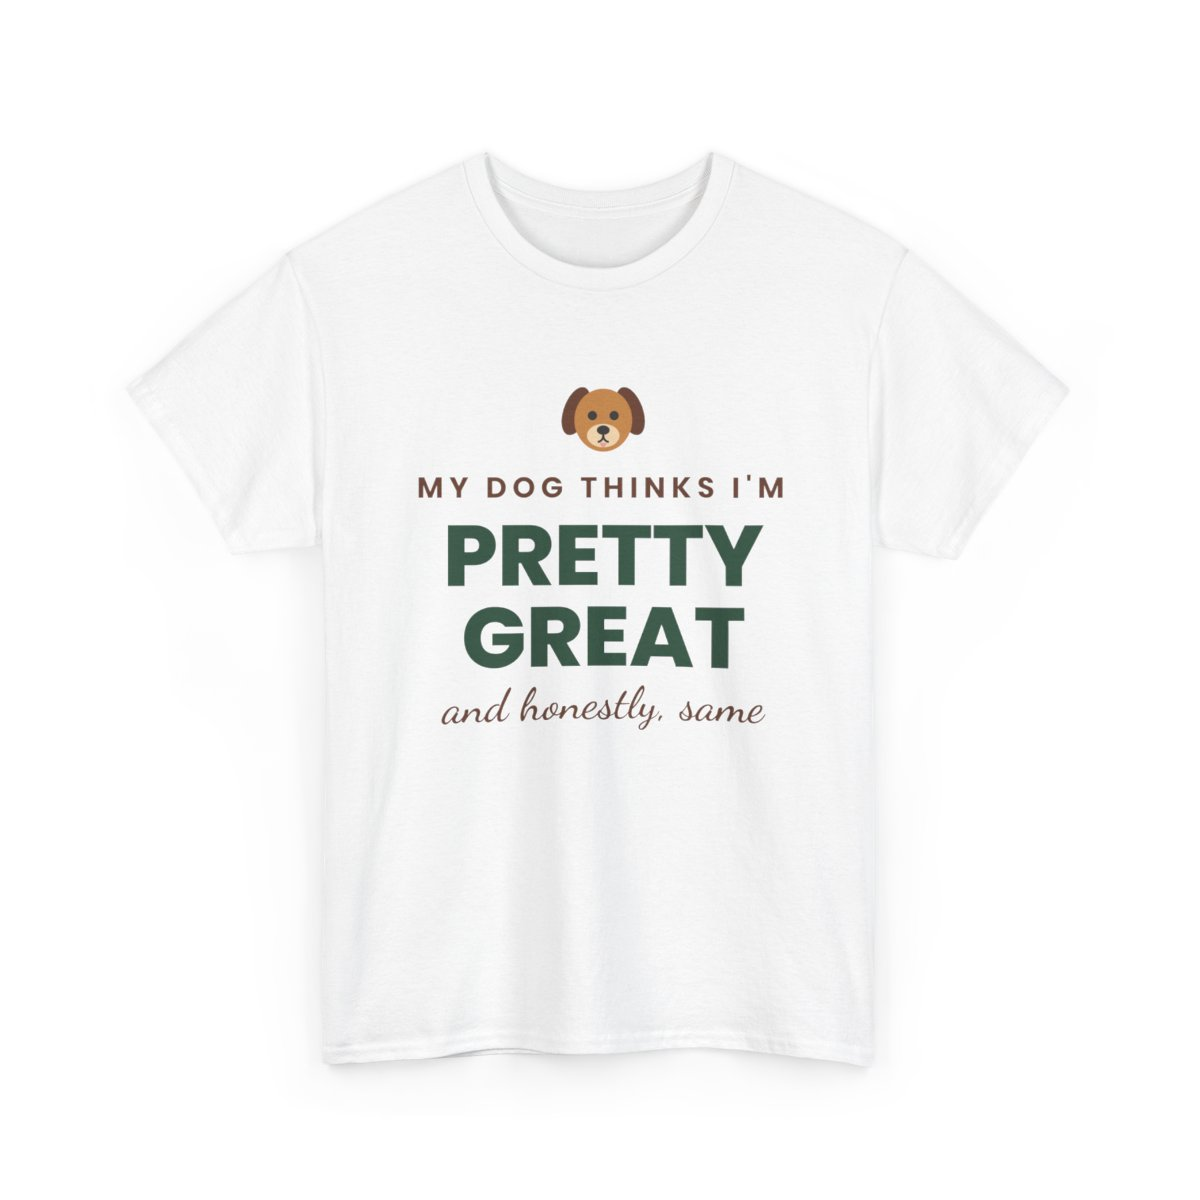
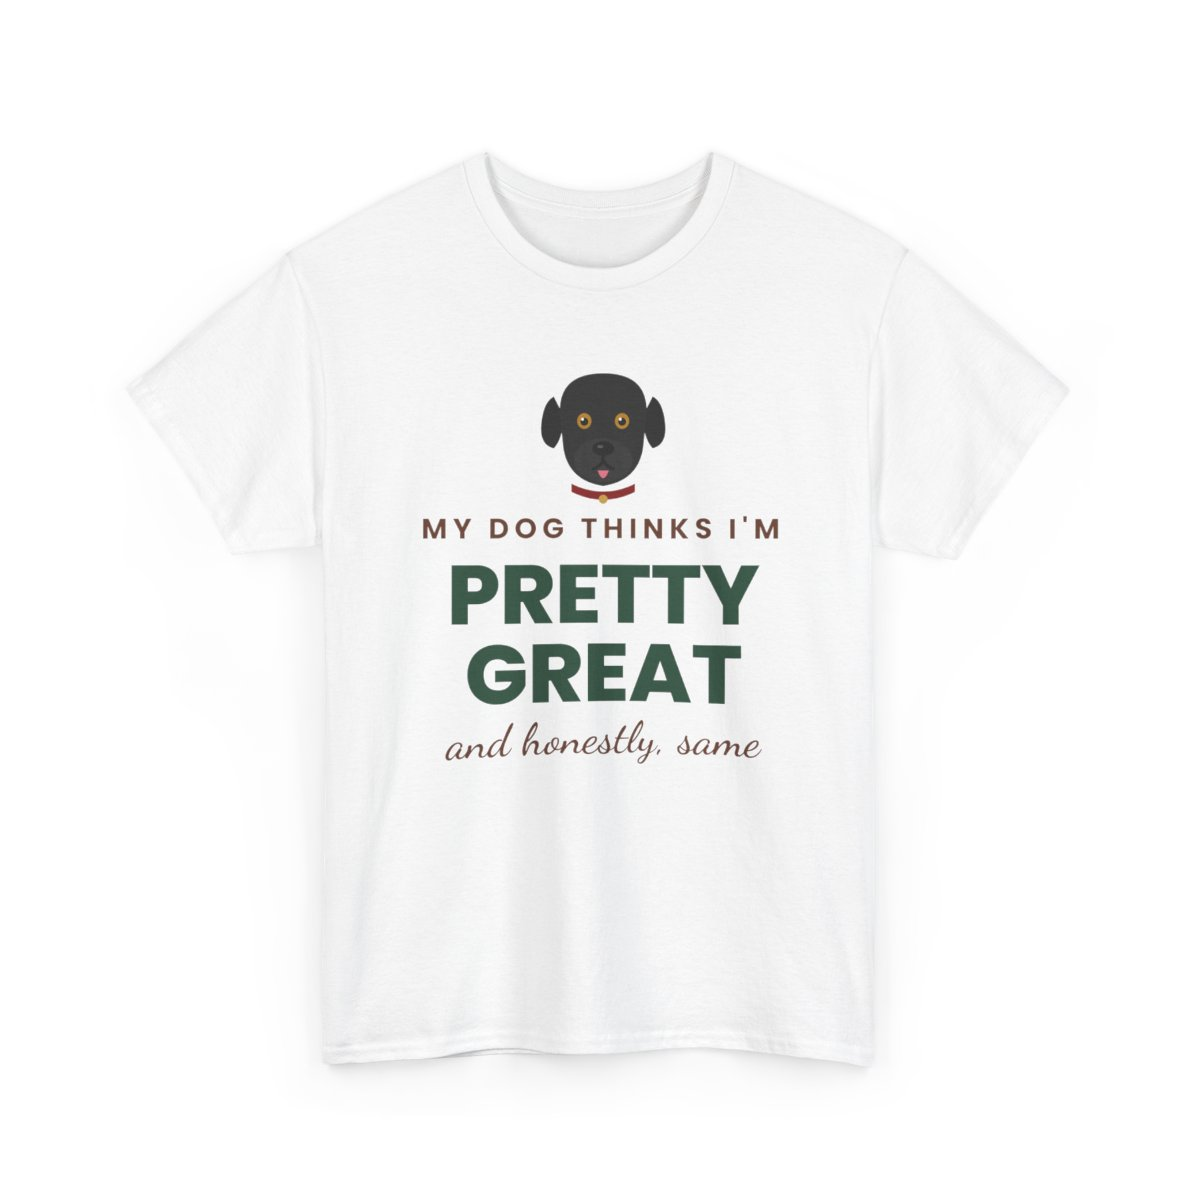
Owner rules: 20% margin floor (24 shirts repriced) and black-lab-only dogs (dog tee redrawn)
Claude-Session: https://claude.ai/code/session_012r2w2rnZ41aNQk7ooqxwNx

Changed region(s): [[0.3392, 0.3083, 0.6475, 0.6475]]

diff --git a/CLAUDE.md b/CLAUDE.md
@@ -39,6 +39,11 @@ Claude reads this file at the start of every session in this repo. Keep it curre
   - Drafts waiting on HQ batch card `ap-pf-batch-2026-11-21`: Santa Promoted Me to Grandpa crewneck ($34.99), Kindergarten Teacher Team tee ($22.99), My Dog Thinks I'm Pretty Great tee ($22.99).
   - Golf prints: Sunrise https://www.etsy.com/listing/4611643362, Golden Hour https://www.etsy.com/listing/4611626909, Sunrise Panorama https://www.etsy.com/listing/4611644710, Golden Hour Panorama https://www.etsy.com/listing/4611630609. Printify prices: prints $34.99/$44.99, panoramas from $29.99.
 
+## Owner rules (Nov 22, 2026)
+
+- **Keep at least a 20% profit margin on every product.** Profit = price − Printify cost − Etsy fees (about 10% + $0.20). So the price must be at least (cost + $0.20) ÷ 0.70, rounded up to the next .99. Check this whenever costs change (back prints, new blueprints, sizes). Never price below it.
+- **Every dog in our designs is a black lab. Always.** Draw a black lab (black coat, drop ears, broad head, amber eyes); never another breed or a generic cartoon dog.
+
 ## Pricing (recommended Nov 7, 2026; shirt and print rows updated by Penny Nov 11 to match live Printify prices)
 
 | Product | Price | Why |
@@ -46,17 +51,17 @@ Claude reads this file at the start of every session in this repo. Keep it curre
 | Kids' Christmas Wish List | $3.99, keep | Entry-level impulse buy, in line with single printables (~$2–4). |
 | Nice List Kit | $6.99, keep | 5 pages, mid-range for Santa letter kits. |
 | Christmas Eve Mega Bundle | **$12.99**, set by owner Nov 8 | 13 pages and includes the whole $6.99 kit. Comparable full Christmas Eve bundles sell for about $10–13. It reads as the obvious upgrade: about 2x the price for 2.6x the pages. Don't go below $9.99, or it undercuts the Nice List Kit. |
-| Kids tees (Big Brother/Sister/Cousin, Nice List) | **$19.99** (live, Printify, Nov 11) | Cost $7.36, so about $10 profit after Etsy fees, before shipping. In band ($6–25; family shirts $20–35, Reach Nov 10). |
+| Kids tees (Big Brother/Sister/Cousin, Nice List, Cookie, Reindeer) | **$20.99** with front + back (Nov 22) | Cost $13.92 with the back print; about $4.80 profit (23%). Front-only kids tees would be $19.99 (cost $7.36). |
 | Toddler tees (Big Brother/Sister/Cousin, Nice List) | **$21.99** (live) | Cost $11.02, about $8.50 profit. The Nov 7 recommendation of $22.99 is not needed. |
-| Adult tees (Grandma, Nice List adult) | **$22.99**, or **$24.99** for 2XL–3XL | Cost $10.05–13.10, about $9–10 profit. Competitor grandparent tees show $13–25 sale prices (Reach Nov 10), so we're at the top: hold and watch. |
+| Adult tees (all) | **$23.99**, 2XL **$26.99**, 3XL **$28.99** with front + back (Nov 22) | Cost $16.48 / $18.33 / $19.53 with the back print; 20%+ margin. Competitor tees show $13–25, so we're at the top. |
 | Youth sweatshirts (Big Brother/Sister) | **$32.99** | Cost $21.71, about $7.80 profit. $29.99 would leave only about $5. |
 | Toddler sweatshirts (Big Brother/Sister) | **$29.99** (Bob, Nov 12) | Cost $19.89, about $6.90 profit. Priced below the youth size. |
-| Adult crewneck sweatshirts (Nice List) | **$34.99**, or **$37.99** for 2XL–3XL (Bob, Nov 14) | Cost $19.45 (2XL $22.35, 3XL $23.79), about $10–12 profit. |
+| Adult crewneck sweatshirts (all) | **$38.99**, 2XL **$42.99**, 3XL **$44.99** with front + back (Nov 22) | Cost $26.69 / $29.58 / $31.03 with the back print; 20%+ margin. |
 | Complete Christmas Printables Bundle (Mega Bundle + Elf Letters + Countdown + Scavenger Hunt + Wish List) | **$19.99** (owner approved Nov 17, card `ap-reach-printables-nov17`) | Top of the bundle ladder ($6.99 → $12.99 → $19.99). About $15 at Cyber Specials 25% off. Built Nov 18; owner publishes. |
 | New Year's Eve kids kit | **$5.99** (owner approved Nov 17) | Paid NYE printables run $3–9 and many are free, so it has to be clearly more complete. List by Dec 5. |
 | Golf course prints | Prints **$34.99** (18x24) / **$44.99** (24x36); panoramas **from $29.99** (live, Printify) | Comparable course prints run about $16–45. Updated from the Nov 7 plan to match Printify, Nov 11. |
 
-**Front + back prints (owner, Nov 22): "all shirts, keep prices."** A back print adds about $6.40 to an adult tee's cost, about $7.25 to a crewneck's and about $5.60 to a kids tee's. Done on Nov 22 for 24 shirts (every adult tee, crewneck and kids tee, live or draft; the rejected batch-9 drafts were skipped). New profit per sale: adult tee about $4 (3XL about $2.80), crewneck about $4.60 (3XL about $3), kids tee about $3.90. That's below the $5–6 rule, by the owner's choice. **Not done yet:** toddler tees (back cost $18.14, so about $1.45 profit at $21.99), youth sweatshirts ($28.82, about $0.70 at $32.99) and toddler sweatshirts ($28.10, a loss of about $1.30 at $29.99). These are waiting for the owner's price decision on HQ card `ap-bob-backs-nov22`. Back designs: `listings/printify/backs/`. From Nov 22, Bob's new drafts get a matching back print.
+**Front + back prints (owner, Nov 22): "all shirts", then "maintain a 20% profit margin", so prices were raised to the 20% floor the same day.** A back print adds about $6.40 to an adult tee's cost, about $7.25 to a crewneck's and about $5.60 to a kids tee's. Done on Nov 22 for 24 shirts (every adult tee, crewneck and kids tee, live or draft; the rejected batch-9 drafts were skipped). Prices were raised to keep a 20% margin (table above). **Not done yet:** toddler tees (back cost $18.14, so $26.99 for 20%), youth sweatshirts ($28.82, so $41.99) and toddler sweatshirts ($28.10, so $40.99). These are waiting for the owner's price decision on HQ card `ap-bob-backs-nov22`. Back designs: `listings/printify/backs/`. From Nov 22, Bob's new drafts get a matching back print.
 
 **Sale calendar (Penny, Nov 11):**
 - 25% launch sale through **Nov 18** (ended)

diff --git a/research/trend-list.md b/research/trend-list.md
@@ -34,7 +34,7 @@ All wording must be original. No memes copied from other sellers, celebrities, b
 | T10 ✅ built Nov 21 (Kindergarten Teacher Team tee 6b01dfce3486fad14006bb56) | **Grade-level team tees** ("Second Grade Crew", "Kindergarten Crew") | Adult tee | Jan–Aug | Teacher teams buy in sets; pairs with T6 |
 | T11 ✅ built Nov 20 (Sideline Parent soccer crewneck 6b008e4e907b5e09640b65fc) | **Hockey or soccer parent humor** (original lines, no teams or leagues) | Adult crewneck | Year-round | Sports parents are an identity niche |
 | T12 ✅ built Nov 20 (Plants Thriving tee 6b008e52bd5cf5fed70fdaa8) | **Plant parent humor**: "Plant Mom, Overwaterer" | Adult tee | Year-round | Hobby niche; giftable |
-| T13 ✅ built Nov 21 (My Dog Thinks I'm Pretty Great tee 6b01dfd45eaafe0e5a0bd63c) | **Dog parent humor**: e.g. "My Dog Thinks I'm Pretty Great" with a simple drawn dog (no breeds tied to brands) | Adult tee / crewneck | Year-round | Pet parents are a huge gift niche |
+| T13 ✅ built Nov 21, redrawn as a black lab Nov 22 (owner: every dog is a black lab) (My Dog Thinks I'm Pretty Great tee 6b01dfd45eaafe0e5a0bd63c) | **Dog parent humor**: e.g. "My Dog Thinks I'm Pretty Great" with a simple drawn dog (no breeds tied to brands) | Adult tee / crewneck | Year-round | Pet parents are a huge gift niche |
 | T14 | **Nurse / healthcare team humor**: e.g. "Night Shift Survivor" (original wording; no hospital names) | Adult tee | Year-round | Profession shirts are bought for teams and gifts |
 | T15 | **Hiking / outdoors**: e.g. "Will Hike for Snacks" with a mountain badge | Adult tee / crewneck | Year-round | Hobby identity; gift buyers |
 | T16 | **Book lover**: e.g. "Just One More Chapter" with a book stack | Adult tee / crewneck | Year-round | Readers buy for themselves and book-club gifts |

diff --git a/docs/conversation-log.md b/docs/conversation-log.md
@@ -706,6 +706,12 @@ A dated record of each working session with Claude: what was asked, what was dec
 - Held: 12 toddler and youth products, because profit would be about $1.45, about $0.70, or a loss. HQ card `ap-bob-backs-nov22` asks the owner.
 - Limitation: the back-view mockup isn't added to Etsy photos through the API; it has to be ticked in Printify's Mockups tab.
 
+## 2026-11-22 (owner: 20% margin rule; dogs are black labs)
+
+- New owner rules, now in CLAUDE.md: keep at least a 20% profit margin, so price ≥ (cost + $0.20) ÷ 0.70; and every dog in our designs is a black lab, always.
+- Checked all 43 Printify products. Only the 24 back-print shirts were below 20%. Raised them to the floor and published the 18 live ones (variants only): adult tees $23.99 / $26.99 (2XL) / $28.99 (3XL), crewnecks $38.99 / $42.99 / $44.99, kids tees $20.99. Golf prints and everything else were already above 20%.
+- Redrew the dog tee draft (6b01dfd45eaafe0e5a0bd63c) as a black lab with a red collar; new title, tags and description lead with "black lab".
+
 ## Workspace checks
 
 - 2026-11-08T20:11:19Z workspace push test OK
